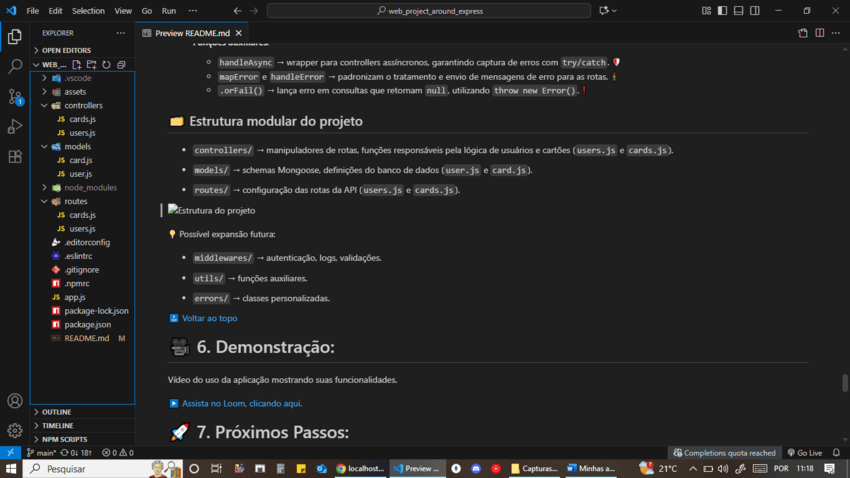
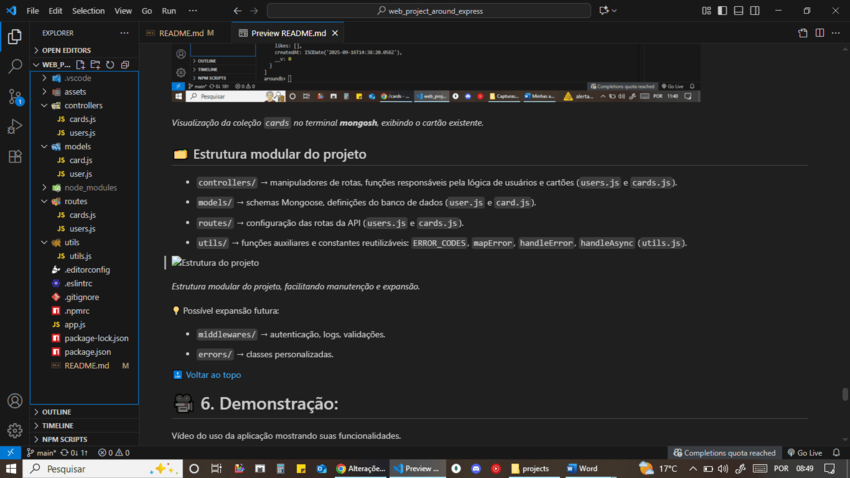
docs: update README and image

diff --git a/README.md b/README.md
@@ -338,7 +338,7 @@ _Teste da rota **GET /alguma-rota-que-não-existe** no Postman, mostrando o reto
 
 - **Middlewares personalizados** → logging de requisições, autenticação temporária de usuário e tratamento de rotas não encontradas. 🛠
 
-- **mapError e handleError** → funções utilitárias que padronizam os erros do servidor, convertendo-os em respostas JSON consistentes com status e mensagens uniformes. ⚡
+- **utils.js (mapError, handleError, handleAsync e ERROR_CODES)** → funções utilitárias e constantes que padronizam os erros do servidor, garantindo respostas JSON consistentes e seguras em todas as rotas. ⚡
 
 - **nodemon** → recarga automática do servidor durante o desenvolvimento: v3.1.10. 🔁
 
@@ -393,7 +393,7 @@ _Teste da rota **GET /alguma-rota-que-não-existe** no Postman, mostrando o reto
 
   - ✅ `200 OK` → lista de usuários
 
-  - ❌ `404 Not Found` → se não houver usuários cadastrados
+  - ✅ `200 OK` → se não houver usuário cadastrado: lista vazia
 
 - `GET /users/:userId` → retorna um usuário específico
 
@@ -433,7 +433,7 @@ _Teste da rota **GET /alguma-rota-que-não-existe** no Postman, mostrando o reto
 
   - ✅ `200 OK` → lista de cartões
 
-  - ❌ `404 Not Found` → se não houver cartões cadastrados
+  - ✅ `200 OK` → se não houver cartão cadastrado: lista vazia
 
 - `POST /cards` → cria um novo cartão
 
@@ -478,14 +478,14 @@ _Teste da rota **GET /alguma-rota-que-não-existe** no Postman, mostrando o reto
   app.use((req, res, next) => { 
     const { method, url } = req; 
    const timestamp = new Date().toISOString(); 
-   console.log([${timestamp}] ${method} ${url}); 
+   console.log(`[${timestamp}] ${method} ${url}`); 
 
    const start = Date.now(); 
   
    // Quando a resposta terminar 
    res.on('finish', () => { 
      const duration = Date.now() - start; 
-      console.log(${res.statusCode} - ${duration}ms); 
+      console.log(`${res.statusCode} - ${duration}ms`); 
    }); 
   
    next(); 
@@ -517,7 +517,7 @@ _Teste da rota **GET /alguma-rota-que-não-existe** no Postman, mostrando o reto
 ## 🛡 Tratamento de erros
 
 - `400 Bad Request` → dados inválidos (`ValidationError`, `CastError`).  
-- `404 Not Found` → recurso inexistente (rota, ID ou coleção vazia).  
+- `404 Not Found` → recurso inexistente (rota, ID).  
 - `500 Internal Server Error` → falha inesperada (execução ou banco de dados).  
 
 📌 Todas as respostas de erro seguem o formato padronizado:
@@ -526,11 +526,13 @@ _Teste da rota **GET /alguma-rota-que-não-existe** no Postman, mostrando o reto
 { "message": "descrição" }
 ```
 
-📌 Os controllers não tratam erros diretamente, usam funções auxiliares:
+📌 Os controllers não tratam erros diretamente, usam funções auxiliares localizadas em `utils/utils.js`:
 
-- `mapError` → identifica o tipo de erro pelo `name` (ex.: `ValidationError`, `CastError`) e define `statusCode` e `message` correspondente.
+- `ERROR_CODES` → constante com códigos HTTP padronizados.
 
-- `handleError` → recebe o erro já mapeado e envia a resposta padronizada para o cliente.
+- `mapError` → identifica o tipo de erro pelo nome (ex.: `ValidationError`, `CastError`) e retorna status e mensagem apropriados.
+
+- `handleError` → envia a resposta padronizada para o cliente.
 
 Dessa forma, todas as rotas retornam mensagens consistentes e o servidor não trava com entradas inválidas.  
 
@@ -547,7 +549,7 @@ Dessa forma, todas as rotas retornam mensagens consistentes e o servidor não tr
   - `$pull` → remove ID. 💔
 
 - **Funções auxiliares**:
-  - `handleAsync` → wrapper para controllers assíncronos, garantindo captura de erros com `try/catch`. 🛡
+  - `handleAsync` → wrapper para controllers assíncronos, garantindo captura de erros com `try/catch` (em `utils/utils.js`). 🛡
   - `.orFail()` → lança erro em consultas que retornam `null`, utilizando `throw new Error()`. ❗
 
 **Mongo DB Compass**:
@@ -578,6 +580,8 @@ _Visualização da coleção `cards` no terminal **mongosh**, exibindo o cartão
 
 - `routes/` → configuração das rotas da API (`users.js` e `cards.js`).
 
+- `utils/` → funções auxiliares e constantes reutilizáveis: `ERROR_CODES`, `mapError`, `handleError`, `handleAsync` (`utils.js`).
+
 ![Estrutura do projeto](./assets/images/estrutura-modular.png)
 
 _Estrutura modular do projeto, facilitando manutenção e expansão._
@@ -585,8 +589,6 @@ _Estrutura modular do projeto, facilitando manutenção e expansão._
 💡 Possível expansão futura:
 
 - `middlewares/` → autenticação, logs, validações.
-
-- `utils/` → funções auxiliares.
 
 - `errors/` → classes personalizadas.
 
